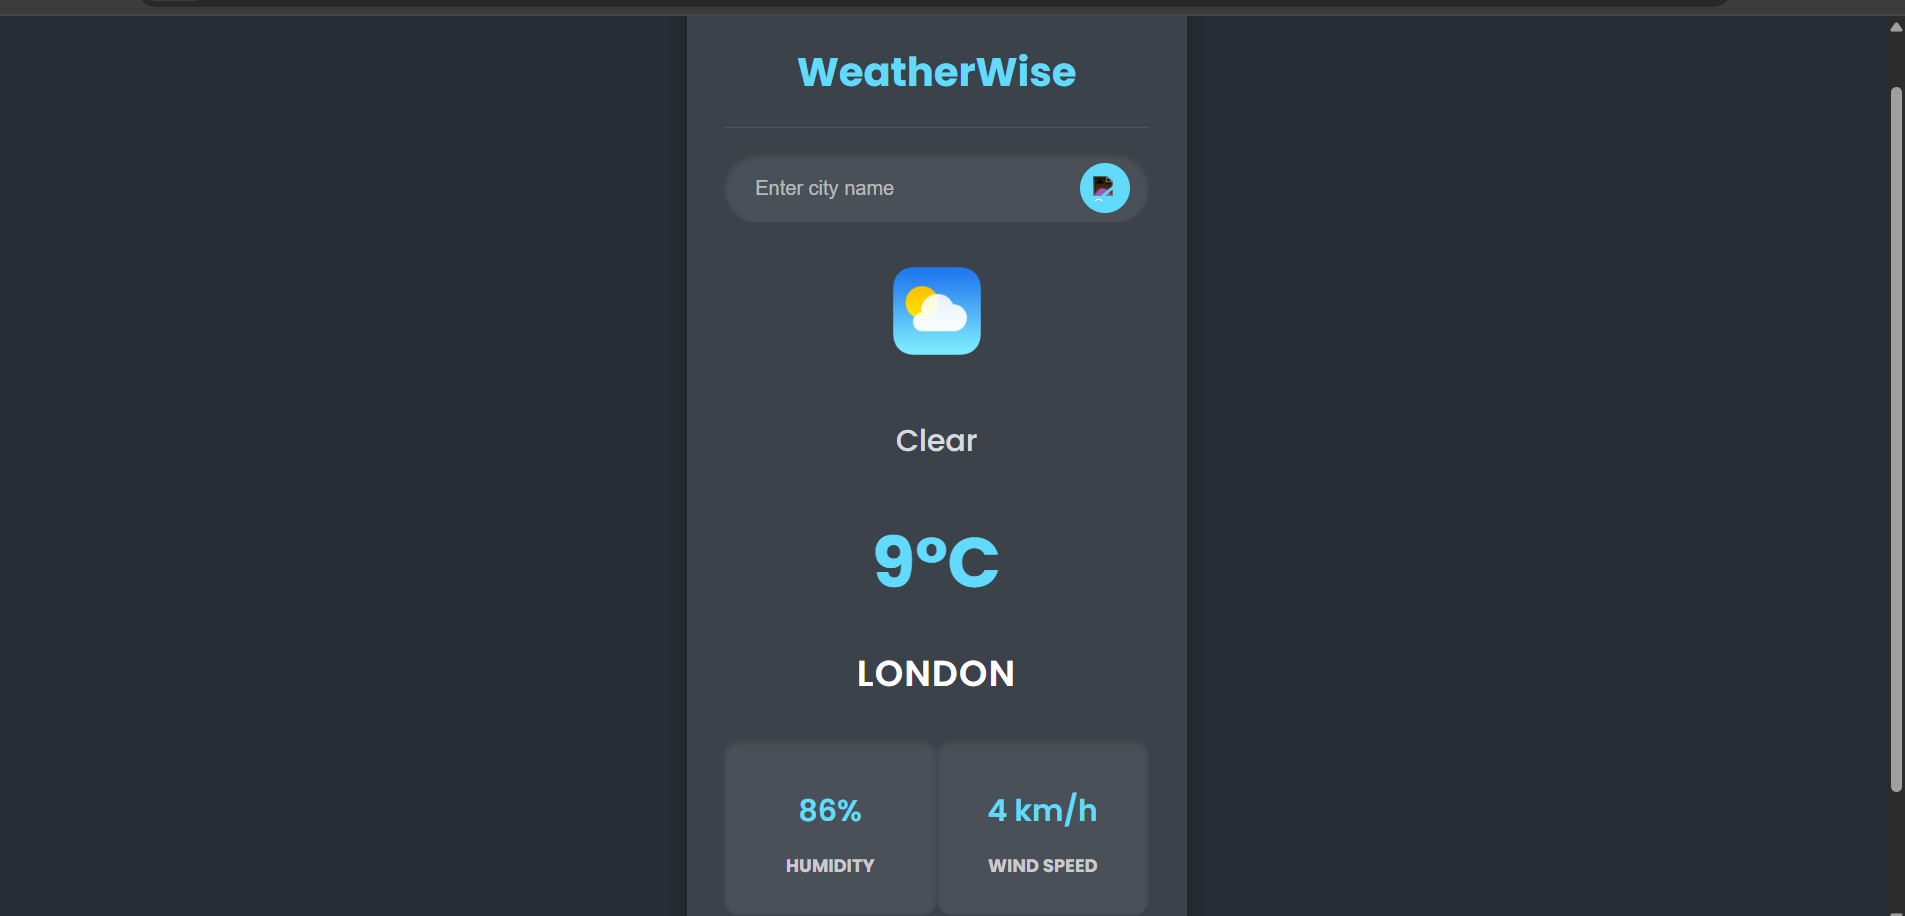
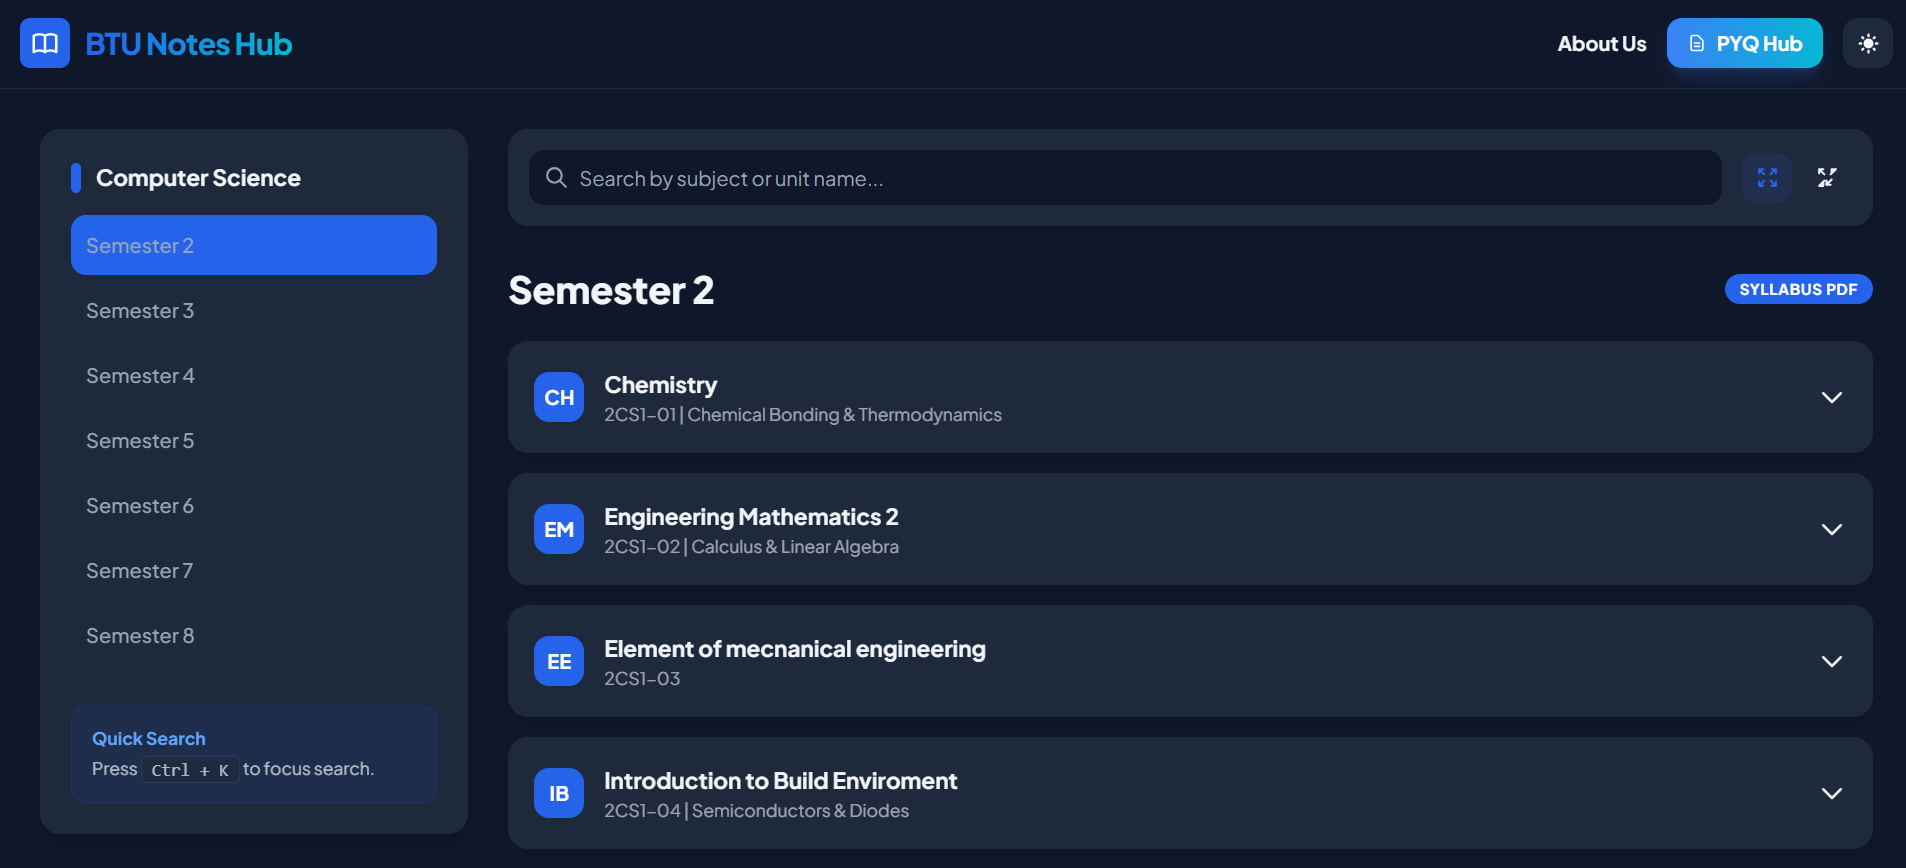
message

diff --git a/index.html b/index.html
@@ -96,19 +96,19 @@
                     <div class="skill-items">
                         <div class="skill-item">
                             <span>Java</span>
-                            <div class="progress-bar"><div class="progress" style="width: 90%"></div></div>
+                            <div class="progress-bar"><div class="progress" style="width: 100%"></div></div>
                         </div>
                         <div class="skill-item">
                             <span>Python</span>
-                            <div class="progress-bar"><div class="progress" style="width: 85%"></div></div>
+                            <div class="progress-bar"><div class="progress" style="width: 90%"></div></div>
                         </div>
                         <div class="skill-item">
                             <span>JavaScript</span>
-                            <div class="progress-bar"><div class="progress" style="width: 88%"></div></div>
+                            <div class="progress-bar"><div class="progress" style="width: 92%"></div></div>
                         </div>
                         <div class="skill-item">
                             <span>C/C++</span>
-                            <div class="progress-bar"><div class="progress" style="width: 82%"></div></div>
+                            <div class="progress-bar"><div class="progress" style="width: 95%"></div></div>
                         </div>
                     </div>
                 </div>
@@ -117,15 +117,15 @@
                     <div class="skill-items">
                         <div class="skill-item">
                             <span>HTML5</span>
-                            <div class="progress-bar"><div class="progress" style="width: 95%"></div></div>
+                            <div class="progress-bar"><div class="progress" style="width: 100%"></div></div>
                         </div>
                         <div class="skill-item">
                             <span>CSS3</span>
-                            <div class="progress-bar"><div class="progress" style="width: 90%"></div></div>
+                            <div class="progress-bar"><div class="progress" style="width: 95%"></div></div>
                         </div>
                         <div class="skill-item">
                             <span>Node.js</span>
-                            <div class="progress-bar"><div class="progress" style="width: 85%"></div></div>
+                            <div class="progress-bar"><div class="progress" style="width: 95%"></div></div>
                         </div>
                     </div>
                 </div>
@@ -134,15 +134,15 @@
                     <div class="skill-items">
                         <div class="skill-item">
                             <span>Android Studio</span>
-                            <div class="progress-bar"><div class="progress" style="width: 88%"></div></div>
+                            <div class="progress-bar"><div class="progress" style="width: 98%"></div></div>
                         </div>
                         <div class="skill-item">
                             <span>Git/GitHub</span>
-                            <div class="progress-bar"><div class="progress" style="width: 92%"></div></div>
+                            <div class="progress-bar"><div class="progress" style="width: 98%"></div></div>
                         </div>
                         <div class="skill-item">
                             <span>AWS</span>
-                            <div class="progress-bar"><div class="progress" style="width: 75%"></div></div>
+                            <div class="progress-bar"><div class="progress" style="width: 90%"></div></div>
                         </div>
                     </div>
                 </div>

diff --git a/script.js b/script.js
@@ -192,11 +192,11 @@ document.addEventListener('DOMContentLoaded', () => {
             link: 'https://vinaykumar17g.github.io/calc/'
         },
         {
-            title: 'WEATHER APP',
-            description: 'Responsive weather app fetching real-time API data, displaying temperature, humidity, and conditions.',
+            title: 'Notes Hub',
+            description: 'Responsive web application for managing notes, pyq, featuring a user-friendly interface.',
             image: 'project6.png',
             technologies: ['HTML', 'CSS', 'JavaScript'],
-            link: 'https://vinaykumar17g.github.io/weather/'
+            link: 'https://b-tech-notes-three.vercel.app/'
         }
     ];
 
